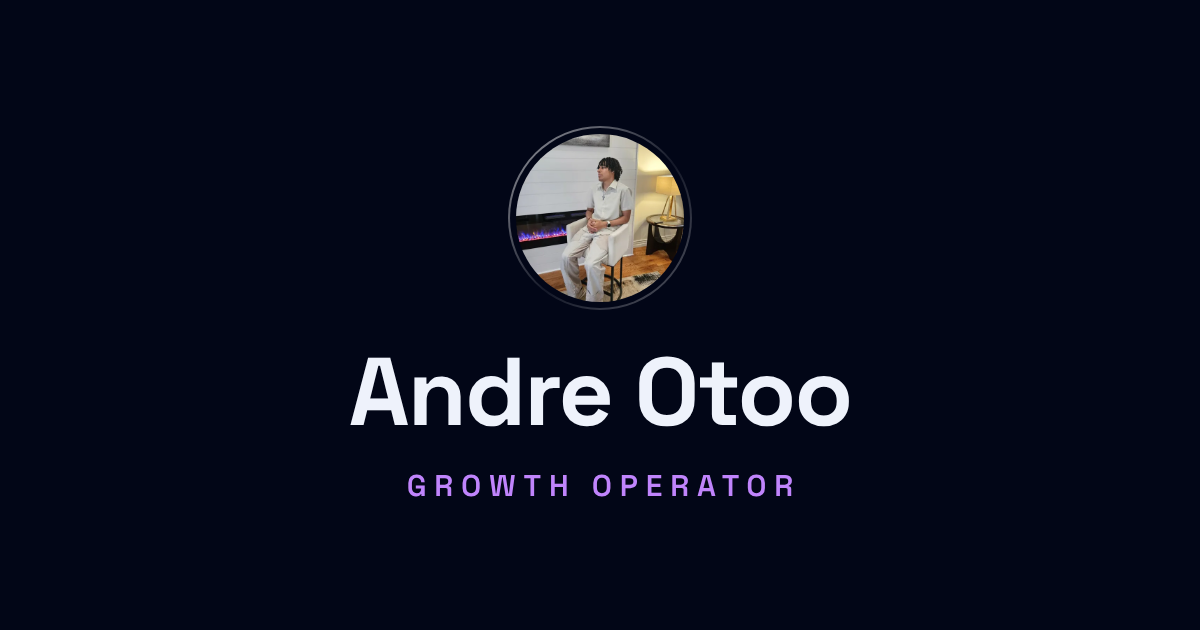
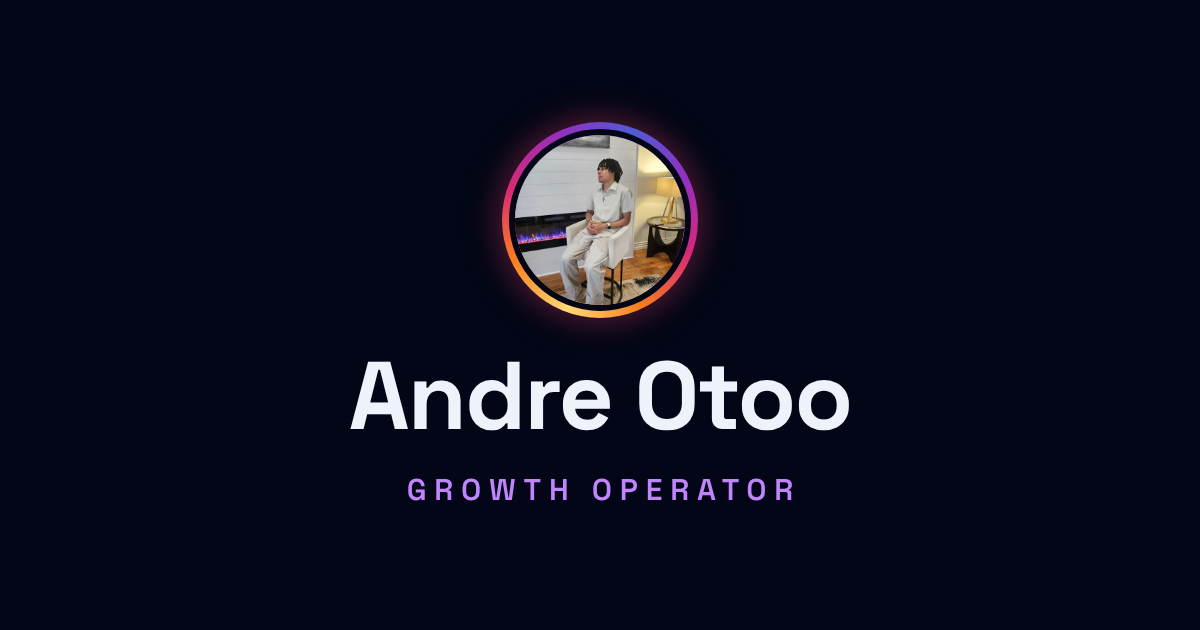
Animated Instagram story ring around Andre's photo
- Instagram story colours (yellow, orange, pink, purple, blue) in a ring
  with the dark gap before the photo, sized in proportion to the photo.
- Colours flow by spinning the ring's conic gradient (transform only,
  150 steps per 5s turn = 30 updates a second); soft still pink/orange
  glow as a box-shadow. Paused when scrolled away and for reduced motion.
- Measured with no GPU and the CPU slowed 4x: no repaints, about a tenth
  of one core while the photo is on screen (a spinning blurred glow cost
  about a quarter, the original orbs over two cores).
- Same ring on the About page photo and in the link-preview image
  (og.png?v=4).

Claude-Session: https://claude.ai/code/session_01XSySSk5ZA8FNdyabTabrrS

Changed region(s): [[0.4008, 0.1508, 0.6167, 0.5429], [0.2775, 0.5429, 0.7092, 0.6937], [0.3392, 0.754, 0.6783, 0.8143]]

diff --git a/index.html b/index.html
@@ -18,7 +18,7 @@
 <meta property="og:title" content="Andre Otoo | Growth Operator">
 <meta property="og:description" content="18-year-old growth operator from New Brunswick, Canada. Founder of Zibli Media. 100k+ followers generated, $350k+ cash generated, 20+ businesses helped.">
 <meta property="og:url" content="https://andreotoo.com/">
-<meta property="og:image" content="https://andreotoo.com/images/og.png?v=3">
+<meta property="og:image" content="https://andreotoo.com/images/og.png?v=4">
 <meta property="og:image:width" content="1200">
 <meta property="og:image:height" content="630">
 <meta property="og:image:alt" content="Andre Otoo, Growth Operator">
@@ -26,7 +26,7 @@
 <meta name="twitter:site" content="@andre_otoo">
 <meta name="twitter:title" content="Andre Otoo | Growth Operator">
 <meta name="twitter:description" content="18-year-old growth operator from New Brunswick, Canada. Founder of Zibli Media. 100k+ followers generated, $350k+ cash generated, 20+ businesses helped.">
-<meta name="twitter:image" content="https://andreotoo.com/images/og.png?v=3">
+<meta name="twitter:image" content="https://andreotoo.com/images/og.png?v=4">
 <script type="application/ld+json">
 {
   "@context": "https://schema.org",
@@ -123,15 +123,29 @@ a{color:inherit}
   display:flex;flex-direction:column;align-items:center;justify-content:center;
   text-align:center;position:relative;
 }
+/* Instagram story ring: the colours flow around the photo by spinning a conic gradient. Only the
+   ring's transform animates, in 150 small steps per turn (30 a second), so the browser just turns
+   the already-painted ring and never repaints the page; the soft glow is a still box-shadow.
+   Measured with no GPU: about a tenth of one core while the photo is on screen. */
 .avatar{
   --size:clamp(112px, 30vw, 140px);
+  position:relative;isolation:isolate;
   width:var(--size);height:var(--size);flex-shrink:0;border-radius:50%;
-  padding:4px;margin-bottom:22px;
-  border:1px solid transparent;
-  background:linear-gradient(var(--bg),var(--bg)) padding-box,
-             linear-gradient(135deg,rgba(255,255,255,.6),rgba(255,255,255,.08) 55%,rgba(255,255,255,.32)) border-box;
+  padding:calc(var(--size) * .036);  /* ring thickness */
+  box-shadow:0 0 18px 1px rgba(214,41,118,.32),0 0 30px 4px rgba(250,126,30,.12);
+  margin-bottom:22px;
 }
-.avatar img{width:100%;height:100%;border-radius:50%;object-fit:cover;background:var(--card)}
+.avatar::before{
+  content:'';position:absolute;inset:0;border-radius:50%;z-index:-1;
+  background:conic-gradient(#feda75, #fa7e1e, #d62976, #962fbf, #4f5bd5, #962fbf, #d62976, #fa7e1e, #feda75);
+  animation:ring 5s steps(150) infinite;
+}
+@keyframes ring{to{transform:rotate(1turn)}}
+.avatar img{
+  width:100%;height:100%;border-radius:50%;object-fit:cover;background:var(--card);
+  border:calc(var(--size) * .03) solid var(--bg);  /* the dark gap between ring and photo */
+}
+.hero.still .avatar::before{animation-play-state:paused}  /* scrolled away */
 .hero h1{font-size:clamp(2.4rem, 9vw, 3.4rem);font-weight:700;letter-spacing:-.02em;margin-bottom:22px}
 .tags{display:flex;gap:10px;justify-content:center;flex-wrap:wrap;margin-bottom:34px;list-style:none}
 .tag{
@@ -433,6 +447,7 @@ footer{
   html{scroll-behavior:auto}
   .reveal{opacity:1;transform:none;transition:none}
   .scroll-cue{animation:none}
+  .avatar::before{animation:none}
   .reveal.in .status .dot{animation:none}
   .btn,.project,.client,.thumb,.thumb .img,.project-link,.play-big{transition:none}
 }
@@ -617,6 +632,13 @@ if ('IntersectionObserver' in window) {
   reveals.forEach(function (el) { io.observe(el); });
 } else {
   reveals.forEach(function (el) { el.classList.add('in'); });
+}
+
+// Pause the photo's ring animation while the hero is off screen.
+if ('IntersectionObserver' in window) {
+  new IntersectionObserver(function (en) {
+    document.querySelector('.hero').classList.toggle('still', !en[0].isIntersecting);
+  }).observe(document.querySelector('.avatar'));
 }
 
 // Hide the scroll cue (and stop its bobbing) once you leave the top of the page.

diff --git a/about.html b/about.html
@@ -18,7 +18,7 @@
 <meta property="og:title" content="About Andre Otoo">
 <meta property="og:description" content="18-year-old growth operator from New Brunswick, Canada, and the founder of Zibli Media.">
 <meta property="og:url" content="https://andreotoo.com/about">
-<meta property="og:image" content="https://andreotoo.com/images/og.png?v=3">
+<meta property="og:image" content="https://andreotoo.com/images/og.png?v=4">
 <meta property="og:image:width" content="1200">
 <meta property="og:image:height" content="630">
 <meta property="og:image:alt" content="Andre Otoo, Growth Operator">
@@ -26,7 +26,7 @@
 <meta name="twitter:site" content="@andre_otoo">
 <meta name="twitter:title" content="About Andre Otoo">
 <meta name="twitter:description" content="18-year-old growth operator from New Brunswick, Canada, and the founder of Zibli Media.">
-<meta name="twitter:image" content="https://andreotoo.com/images/og.png?v=3">
+<meta name="twitter:image" content="https://andreotoo.com/images/og.png?v=4">
 <script type="application/ld+json">
 {
   "@context": "https://schema.org",
@@ -99,14 +99,28 @@ img{max-width:100%;display:block}
 @media (hover:hover){.back:hover{color:var(--text)}}
 
 .intro{display:flex;align-items:center;gap:clamp(16px, 4vw, 24px);margin:24px 0 18px}
+/* Instagram story ring: the colours flow around the photo by spinning a conic gradient. Only the
+   ring's transform animates, in 150 small steps per turn (30 a second), so the browser just turns
+   the already-painted ring and never repaints the page; the soft glow is a still box-shadow.
+   Measured with no GPU: about a tenth of one core while the photo is on screen. */
 .avatar{
   --size:clamp(76px, 20vw, 96px);
-  flex-shrink:0;width:var(--size);height:var(--size);border-radius:50%;padding:3px;
-  border:1px solid transparent;
-  background:linear-gradient(var(--bg),var(--bg)) padding-box,
-             linear-gradient(135deg,rgba(255,255,255,.6),rgba(255,255,255,.08) 55%,rgba(255,255,255,.32)) border-box;
+  position:relative;isolation:isolate;
+  width:var(--size);height:var(--size);flex-shrink:0;border-radius:50%;
+  padding:calc(var(--size) * .036);  /* ring thickness */
+  box-shadow:0 0 12px 1px rgba(214,41,118,.3),0 0 20px 3px rgba(250,126,30,.1);
 }
-.avatar img{width:100%;height:100%;border-radius:50%;object-fit:cover;background:var(--card)}
+.avatar::before{
+  content:'';position:absolute;inset:0;border-radius:50%;z-index:-1;
+  background:conic-gradient(#feda75, #fa7e1e, #d62976, #962fbf, #4f5bd5, #962fbf, #d62976, #fa7e1e, #feda75);
+  animation:ring 5s steps(150) infinite;
+}
+@keyframes ring{to{transform:rotate(1turn)}}
+.avatar img{
+  width:100%;height:100%;border-radius:50%;object-fit:cover;background:var(--card);
+  border:calc(var(--size) * .03) solid var(--bg);  /* the dark gap between ring and photo */
+}
+@media (prefers-reduced-motion:reduce){.avatar::before{animation:none}}
 h1{font-size:clamp(2rem, 8vw, 2.8rem);font-weight:700;letter-spacing:-.02em}
 .lede{font-size:clamp(1.08rem, 3.6vw, 1.2rem);color:var(--text);margin-bottom:14px;text-wrap:pretty}
 .pitch{color:var(--muted);font-size:clamp(1rem, 3vw, 1.05rem);margin-bottom:36px;text-wrap:pretty}
